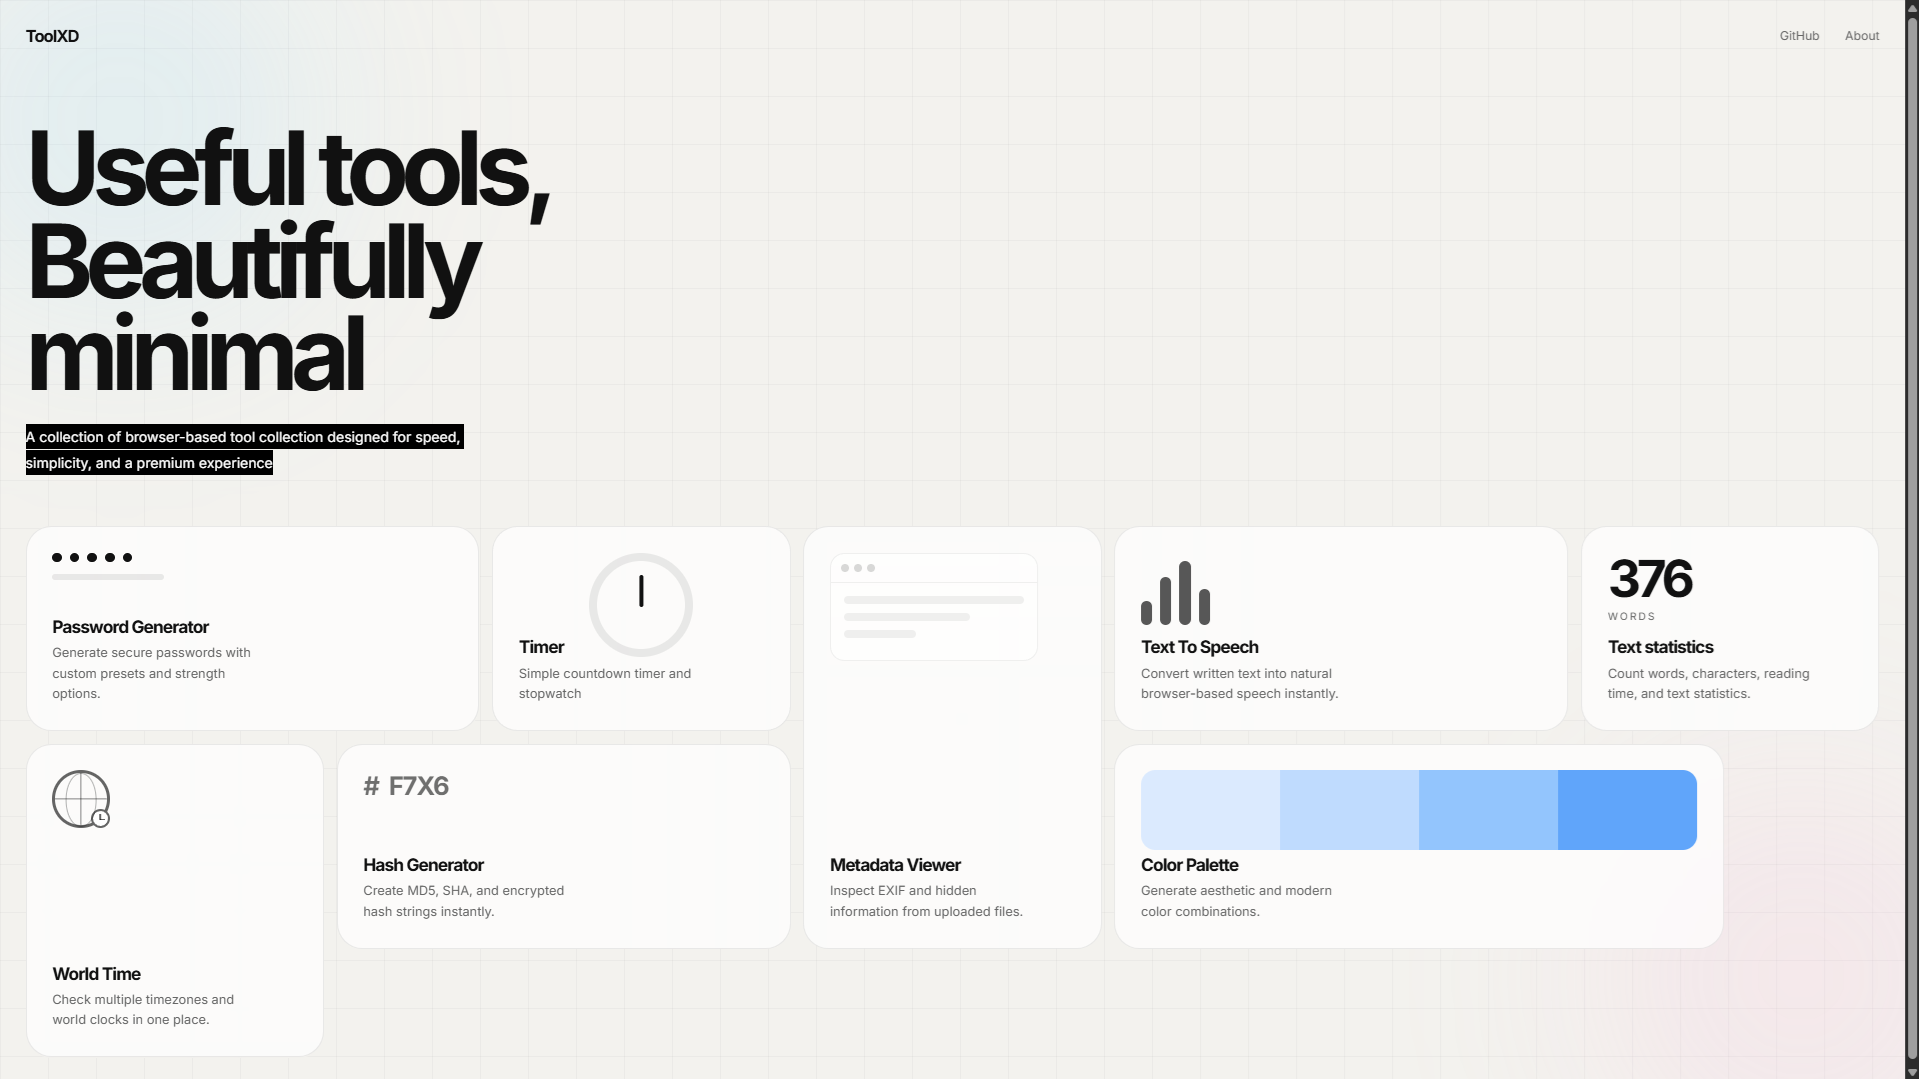
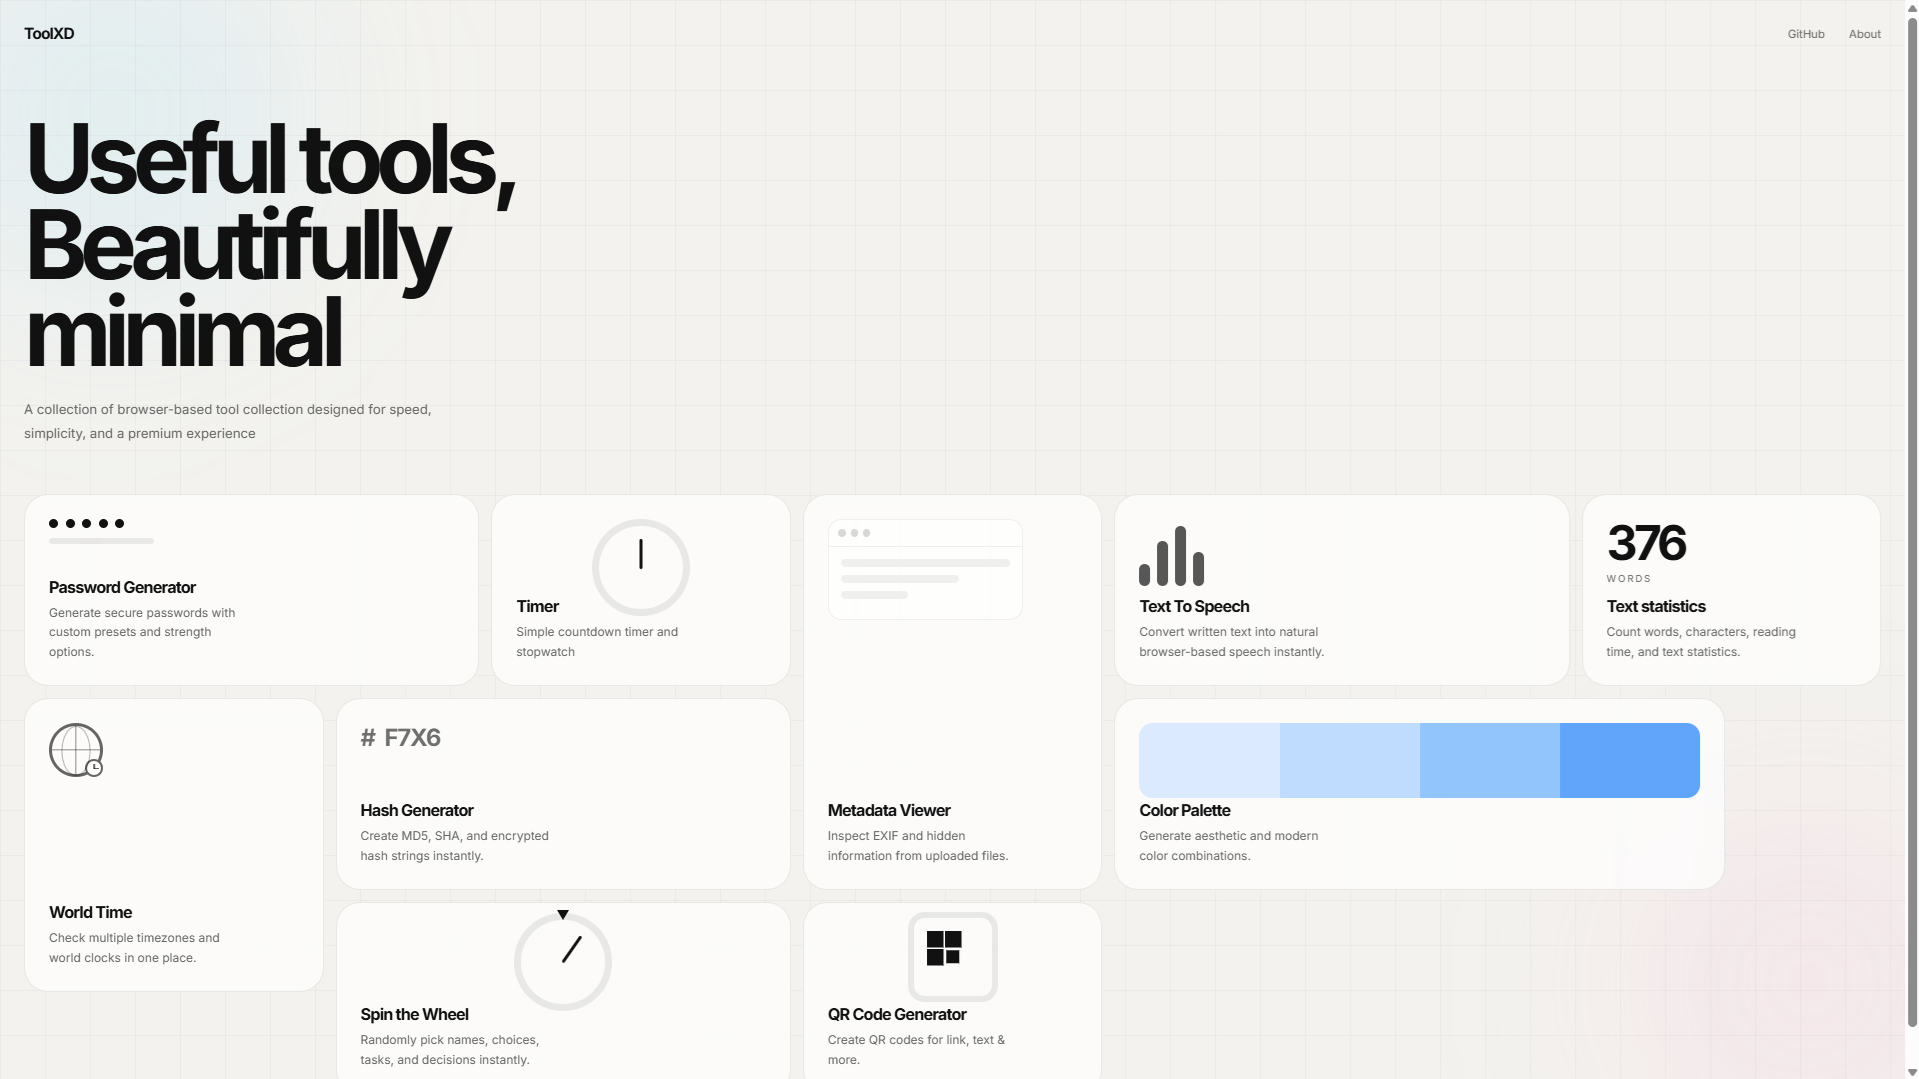
Updated README with new screenshot and structure

diff --git a/about.html b/about.html
@@ -85,6 +85,8 @@ toolxd
 │   └── style.css
 ├── index.html
 └── tools
+    ├── atemplate
+    │   └── atemplate.html
     ├── hashgen
     │   ├── hashgen.css
     │   ├── hashgen.html
@@ -101,6 +103,10 @@ toolxd
     │   ├── passwordgen.css
     │   ├── passwordgen.html
     │   └── passwordgen.js
+    ├── qrcode
+    │   ├── qrcode.css
+    │   ├── qrcode.html
+    │   └── qrcode.js
     ├── spinwheel
     │   ├── spinwheel.css
     │   ├── spinwheel.html

diff --git a/README.md b/README.md
@@ -70,6 +70,8 @@ toolxd
 │   └── style.css
 ├── index.html
 └── tools
+    ├── atemplate
+    │   └── atemplate.html
     ├── hashgen
     │   ├── hashgen.css
     │   ├── hashgen.html
@@ -86,6 +88,10 @@ toolxd
     │   ├── passwordgen.css
     │   ├── passwordgen.html
     │   └── passwordgen.js
+    ├── qrcode
+    │   ├── qrcode.css
+    │   ├── qrcode.html
+    │   └── qrcode.js
     ├── spinwheel
     │   ├── spinwheel.css
     │   ├── spinwheel.html
@@ -122,6 +128,6 @@ Almost all tools run inside the browser using Browser APIs and LocalStorage. So 
 
 ChatGPT and Codex were used for: 
 
-I used ChatGPT occasionally to help me with creating initial structure and helping me understand JavaScript logic. I used codex once to find performance improvements and help create global css. All features, design decisios and final integration were implemented by me.
+I used ChatGPT occasionally to help me with creating initial structure and helping me understand JavaScript logic. I used codex once to find performance improvements and help create global css. All features, design decisions and final integration were implemented by me.
 
 ---